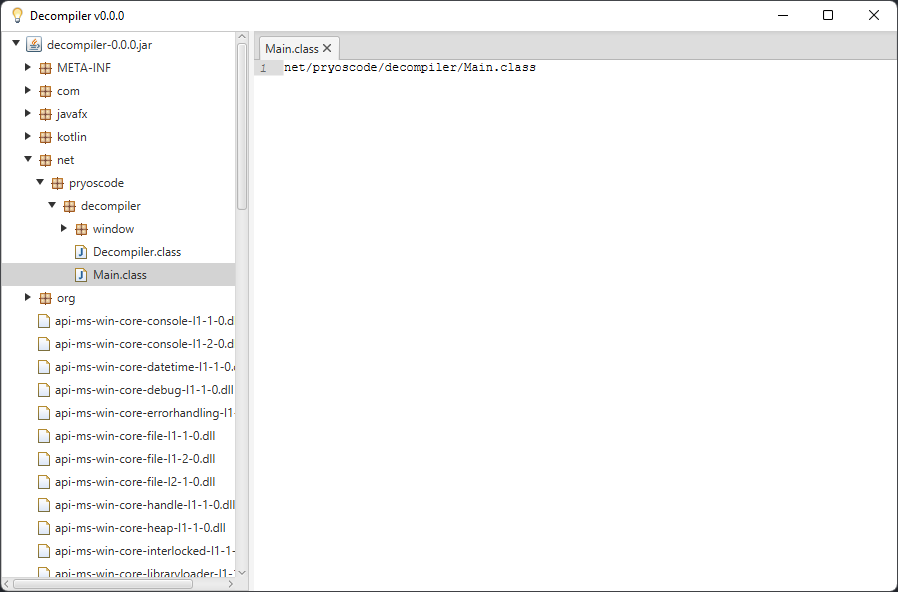
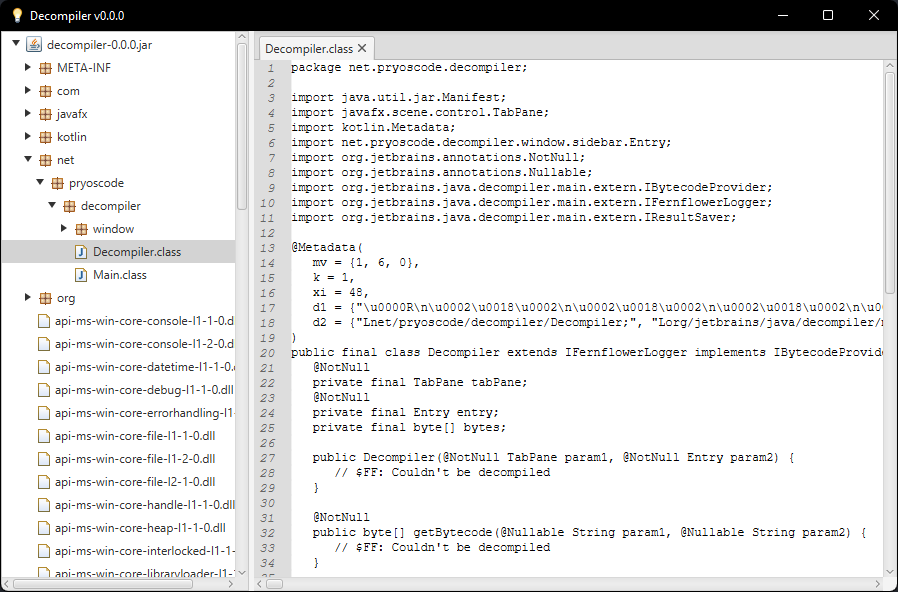
Add Decompilation

Changed region(s): [[0.0, 0.0, 1.0, 1.0]]

diff --git a/src/main/kotlin/net/pryoscode/decompiler/Decompiler.kt b/src/main/kotlin/net/pryoscode/decompiler/Decompiler.kt
@@ -1,28 +1,66 @@
 package net.pryoscode.decompiler
 
+import javafx.scene.control.TabPane
+import net.pryoscode.decompiler.window.code.Preview
+import net.pryoscode.decompiler.window.sidebar.Entry
 import org.jetbrains.java.decompiler.main.Fernflower
 import org.jetbrains.java.decompiler.main.extern.IBytecodeProvider
+import org.jetbrains.java.decompiler.main.extern.IFernflowerLogger
 import org.jetbrains.java.decompiler.main.extern.IFernflowerPreferences
 import org.jetbrains.java.decompiler.main.extern.IResultSaver
+import org.jetbrains.java.decompiler.struct.ContextUnit
+import org.jetbrains.java.decompiler.struct.StructClass
+import org.jetbrains.java.decompiler.struct.StructContext
+import org.jetbrains.java.decompiler.struct.lazy.LazyLoader
+import org.jetbrains.java.decompiler.util.DataInputFullStream
+import org.jetbrains.java.decompiler.util.InterpreterUtil
 import java.util.jar.Manifest
 
-class Decompiler : IBytecodeProvider, IResultSaver {
+class Decompiler(private val tabPane: TabPane, private val entry: Entry) : IBytecodeProvider, IResultSaver, IFernflowerLogger() {
+
+    private val bytes = InterpreterUtil.getBytes(entry.file, entry.entry)
 
     init {
-        Fernflower(this, this, IFernflowerPreferences.DEFAULTS, null)
+        val fernflower = Fernflower(this, this, IFernflowerPreferences.DEFAULTS, this)
+
+        val structContextField = fernflower.javaClass.getDeclaredField("structContext")
+        structContextField.isAccessible = true
+        val structContext = structContextField.get(fernflower) as StructContext
+
+        val unitsField = structContext.javaClass.getDeclaredField("units")
+        unitsField.isAccessible = true
+        val units = unitsField.get(structContext) as Map<String, ContextUnit>
+
+        val loaderField = structContext.javaClass.getDeclaredField("loader")
+        loaderField.isAccessible = true
+        val loader = loaderField.get(structContext) as LazyLoader
+
+        val structClass = StructClass.create(DataInputFullStream(bytes), true, loader)
+        structClass.qualifiedName
+        structContext.classes["null.class"] = structClass
+        units[""]?.addClass(structClass, "null.class")
+
+        fernflower.decompileContext()
     }
 
     override fun getBytecode(externalPath: String?, internalPath: String?): ByteArray {
-        return ByteArray(0)
+        return bytes
+    }
+
+    override fun saveClassFile(path: String?, qualifiedName: String?, entryName: String?, content: String?, mapping: IntArray?) {
+        val tab = content?.let { Preview(entry, it) }
+        tabPane.tabs.add(tab)
+        tabPane.selectionModel.select(tab)
     }
 
     override fun saveFolder(path: String?) {}
     override fun copyFile(source: String?, path: String?, entryName: String?) {}
-    override fun saveClassFile(path: String?, qualifiedName: String?, entryName: String?, content: String?, mapping: IntArray?) {}
     override fun createArchive(path: String?, archiveName: String?, manifest: Manifest?) {}
     override fun saveDirEntry(path: String?, archiveName: String?, entryName: String?) {}
     override fun copyEntry(source: String?, path: String?, archiveName: String?, entry: String?) {}
     override fun saveClassEntry(path: String?, archiveName: String?, qualifiedName: String?, entryName: String?, content: String?) {}
     override fun closeArchive(path: String?, archiveName: String?) {}
+    override fun writeMessage(message: String?, severity: Severity?) {}
+    override fun writeMessage(message: String?, severity: Severity?, t: Throwable?) {}
 
 }

diff --git a/src/main/kotlin/net/pryoscode/decompiler/window/sidebar/Item.kt b/src/main/kotlin/net/pryoscode/decompiler/window/sidebar/Item.kt
@@ -18,7 +18,7 @@ class Item(entries: ArrayList<JarEntry>, private val entry: Entry) : TreeItem<En
                     val name = e.name.split("/")[0]
                     if (!control.contains(name)) {
                         control.add(name)
-                        if (e.isDirectory) dirs.add(Entry(e)) else files.add(Entry(e))
+                        if (e.isDirectory) dirs.add(Entry(entry.file, e)) else files.add(Entry(entry.file, e))
                     }
                 }
             }
@@ -36,9 +36,9 @@ class Item(entries: ArrayList<JarEntry>, private val entry: Entry) : TreeItem<En
                     val sub = e.name.substring(entry.path.length)
                     if (e.isDirectory && !sub.substringBeforeLast("/").contains("/")) {
                         println(sub)
-                        dirs.add(Entry(e))
+                        dirs.add(Entry(entry.file, e))
                     }else if (!sub.contains("/"))
-                        files.add(Entry(e))
+                        files.add(Entry(entry.file, e))
                 }
             }
             dirs.sortWith { e1, e2 -> e1.name.compareTo(e2.name) }

diff --git a/src/main/kotlin/net/pryoscode/decompiler/window/sidebar/Sidebar.kt b/src/main/kotlin/net/pryoscode/decompiler/window/sidebar/Sidebar.kt
@@ -14,6 +14,7 @@ class Sidebar(private val container: Container) : BorderPane() {
     init {
         tree.setCellFactory { Cell(container) }
         center = tree
+        tree.minWidth = 50.0
         right = Bar(tree)
     }
 
@@ -21,10 +22,11 @@ class Sidebar(private val container: Container) : BorderPane() {
         if (!file.exists()) return
         container.tabs.clear()
         val entries = ArrayList<JarEntry>()
-        val jar = JarFile(file).entries()
-        while (jar.hasMoreElements())
-            entries.add(jar.nextElement())
-        val entry = Entry(null)
+        val jar = JarFile(file)
+        val jarEntries = jar.entries()
+        while (jarEntries.hasMoreElements())
+            entries.add(jarEntries.nextElement())
+        val entry = Entry(jar, null)
         entry.name = file.name
         entry.path = file.absolutePath
         entry.type = Type.ARCHIVE

diff --git a/src/main/kotlin/net/pryoscode/decompiler/window/code/Preview.kt b/src/main/kotlin/net/pryoscode/decompiler/window/code/Preview.kt
@@ -2,17 +2,18 @@ package net.pryoscode.decompiler.window.code
 
 import javafx.scene.control.Tab
 import net.pryoscode.decompiler.window.sidebar.Entry
+import org.fxmisc.flowless.VirtualizedScrollPane
 import org.fxmisc.richtext.CodeArea
 import org.fxmisc.richtext.LineNumberFactory
 
-class Preview(entry: Entry) : Tab() {
+class Preview(entry: Entry, code: String) : Tab() {
 
     init {
         text = entry.name
-        val codeArea = CodeArea(entry.path)
+        val codeArea = CodeArea(code)
         codeArea.isEditable = false
         codeArea.paragraphGraphicFactory = LineNumberFactory.get(codeArea)
-        content = codeArea
+        content = VirtualizedScrollPane(codeArea)
     }
 
 }

diff --git a/src/main/kotlin/net/pryoscode/decompiler/window/code/Container.kt b/src/main/kotlin/net/pryoscode/decompiler/window/code/Container.kt
@@ -1,6 +1,7 @@
 package net.pryoscode.decompiler.window.code
 
 import javafx.scene.control.TabPane
+import net.pryoscode.decompiler.Decompiler
 import net.pryoscode.decompiler.window.sidebar.Entry
 
 class Container : TabPane() {
@@ -11,9 +12,7 @@ class Container : TabPane() {
     }
 
     fun open(entry: Entry) {
-        val tab = Preview(entry)
-        tabs.add(tab)
-        selectionModel.select(tab)
+        Decompiler(this, entry)
     }
 
 }

diff --git a/src/main/kotlin/net/pryoscode/decompiler/window/sidebar/Bar.kt b/src/main/kotlin/net/pryoscode/decompiler/window/sidebar/Bar.kt
@@ -10,7 +10,7 @@ class Bar(private val tree: TreeView<Entry>) : Pane() {
     init {
         prefWidth = 5.0
         prefHeight = Double.MAX_VALUE
-        cursor = Cursor.E_RESIZE
+        cursor = Cursor.H_RESIZE
         addEventHandler(MouseEvent.MOUSE_DRAGGED, ::mouseDragged)
     }
 

diff --git a/src/main/kotlin/net/pryoscode/decompiler/window/sidebar/Entry.kt b/src/main/kotlin/net/pryoscode/decompiler/window/sidebar/Entry.kt
@@ -1,8 +1,9 @@
 package net.pryoscode.decompiler.window.sidebar
 
 import java.util.jar.JarEntry
+import java.util.jar.JarFile
 
-class Entry(entry: JarEntry?) {
+class Entry(val file: JarFile?, val entry: JarEntry?) {
 
     lateinit var name: String
     lateinit var path: String

diff --git a/src/main/kotlin/net/pryoscode/decompiler/window/sidebar/Cell.kt b/src/main/kotlin/net/pryoscode/decompiler/window/sidebar/Cell.kt
@@ -1,7 +1,6 @@
 package net.pryoscode.decompiler.window.sidebar
 
 import javafx.scene.control.TreeCell
-import javafx.scene.image.Image
 import javafx.scene.image.ImageView
 import javafx.scene.input.MouseButton
 import javafx.scene.input.MouseEvent
